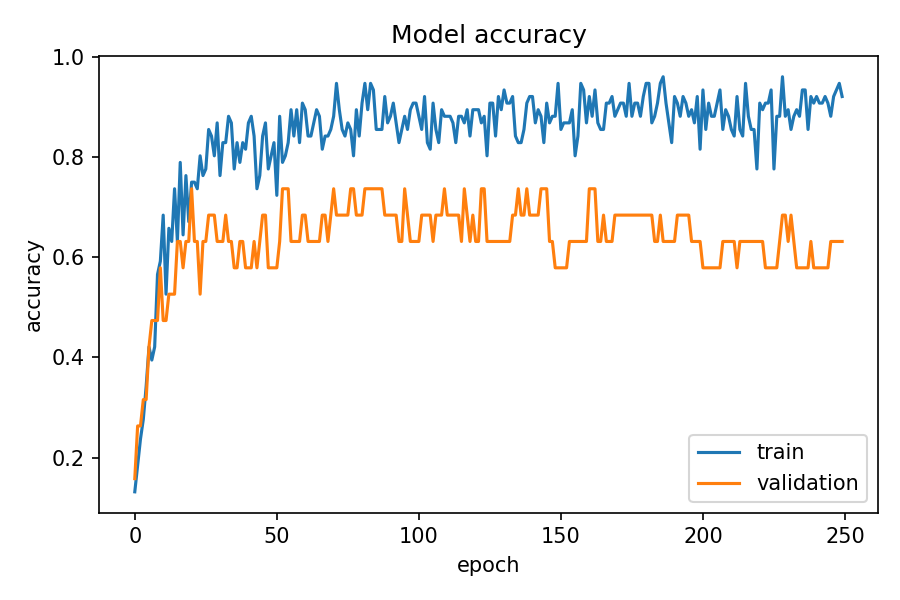
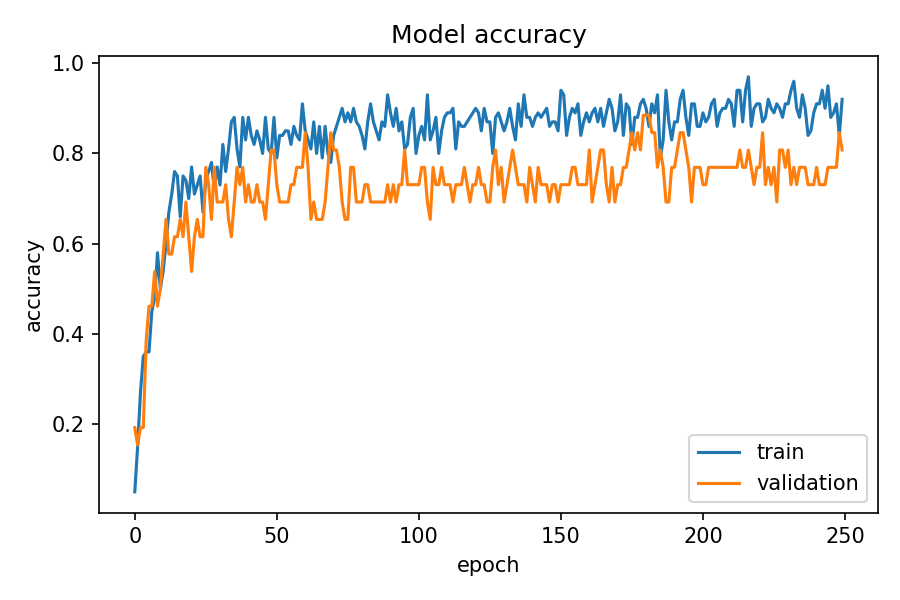
Add files via upload

diff --git a/app.js b/app.js
@@ -9,7 +9,7 @@
 
 'use strict';
 
-const MODEL_VERSION = 'v1';                 // bump to force a retrain
+const MODEL_VERSION = 'v2';                 // bump to force a retrain
 const MODEL_KEY = `indexeddb://voicebot-${MODEL_VERSION}`;
 const CONFIDENCE_THRESHOLD = 0.55;          // below this -> fallback reply
 
@@ -79,10 +79,10 @@ function bagOfWords(tokens) {
 /* ---------------------------------------------------------------- model */
 function buildModel(inputSize, numClasses) {
   const m = tf.sequential();
-  m.add(tf.layers.dense({ inputShape: [inputSize], units: 16, activation: 'relu' }));
-  m.add(tf.layers.dropout({ rate: 0.3 }));
-  m.add(tf.layers.dense({ units: 16, activation: 'relu' }));
-  m.add(tf.layers.dropout({ rate: 0.3 }));
+  m.add(tf.layers.dense({ inputShape: [inputSize], units: 24, activation: 'relu' }));
+  m.add(tf.layers.dropout({ rate: 0.2 }));
+  m.add(tf.layers.dense({ units: 24, activation: 'relu' }));
+  m.add(tf.layers.dropout({ rate: 0.2 }));
   m.add(tf.layers.dense({ units: numClasses, activation: 'softmax' }));
   m.compile({
     optimizer: tf.train.adam(0.01),
@@ -95,27 +95,35 @@ function buildModel(inputSize, numClasses) {
 async function trainModel(trainTokens, trainLabels) {
   const xs = tf.tensor2d(trainTokens.map(bagOfWords));
   const ys = tf.oneHot(tf.tensor1d(trainLabels, 'int32'), classes.length);
-
   const m = buildModel(vocab.length, classes.length);
-  await m.fit(xs, ys, {
-    epochs: 250,
-    batchSize: 8,
-    shuffle: true,
-    verbose: 0,
+
+  // clean argmax accuracy on the training set (dropout is off during predict)
+  const evalAcc = () => tf.tidy(() => {
+    const preds = m.predict(xs).argMax(1).dataSync();
+    let c = 0;
+    for (let i = 0; i < preds.length; i++) if (preds[i] === trainLabels[i]) c++;
+    return c / preds.length;
   });
 
-  // report a clean argmax accuracy (dropout off during predict)
-  const preds = m.predict(xs).argMax(1).dataSync();
-  let correct = 0;
-  for (let i = 0; i < preds.length; i++) if (preds[i] === trainLabels[i]) correct++;
-  const acc = correct / preds.length;
+  await m.fit(xs, ys, { epochs: 300, batchSize: 8, shuffle: true, verbose: 0 });
+  let acc = evalAcc();
+
+  // safeguard: keep training if an unlucky start left it under-fit
+  let rounds = 0;
+  while (acc < 0.95 && rounds < 3) {
+    await m.fit(xs, ys, { epochs: 150, batchSize: 8, shuffle: true, verbose: 0 });
+    acc = evalAcc();
+    rounds++;
+  }
 
   xs.dispose(); ys.dispose();
   return { model: m, acc };
 }
 
 async function classify(text) {
-  const vec = bagOfWords(tokenize(text));
+  const tokens = tokenize(text);
+  const vec = bagOfWords(tokens);
+  const knownWords = vec.reduce((a, b) => a + b, 0); // how many words the model knows
   const input = tf.tensor2d([vec]);
   const output = model.predict(input);
   const probs = await output.data();
@@ -123,7 +131,7 @@ async function classify(text) {
 
   let best = 0;
   for (let i = 1; i < probs.length; i++) if (probs[i] > probs[best]) best = i;
-  return { tag: classes[best], confidence: probs[best] };
+  return { tag: classes[best], confidence: probs[best], knownWords };
 }
 
 /* ---------------------------------------------------------- responses */
@@ -182,14 +190,15 @@ async function handleUserText(text) {
   if (!clean) return;
   addTurn('user', clean);
 
-  const { tag, confidence } = await classify(clean);
+  const { tag, confidence, knownWords } = await classify(clean);
   const pct = Math.round(confidence * 100);
-  const low = confidence < CONFIDENCE_THRESHOLD;
-  const reply = low ? pick(FALLBACKS) : responseFor(tag);
+  // uncertain if: no recognised words at all, or low confidence
+  const uncertain = knownWords === 0 || confidence < CONFIDENCE_THRESHOLD;
+  const reply = uncertain ? pick(FALLBACKS) : responseFor(tag);
 
   addTurn('bot', reply, {
-    html: `intent <b>${low ? 'uncertain' : tag}</b> · ${pct}%`,
-    low,
+    html: `intent <b>${uncertain ? 'uncertain' : tag}</b> · ${pct}%`,
+    low: uncertain,
   });
   speak(reply);
 }

diff --git a/report.md b/report.md
@@ -49,14 +49,14 @@ TensorFlow.js:
 | Layer | Units | Activation | Notes |
 |------:|:-----:|:----------:|-------|
 | Input | vocab size | – | binary bag-of-words vector |
-| Dense | 16 | ReLU | |
-| Dropout | – | – | rate 0.3 (regularization) |
-| Dense | 16 | ReLU | |
-| Dropout | – | – | rate 0.3 |
+| Dense | 24 | ReLU | |
+| Dropout | – | – | rate 0.2 (regularization) |
+| Dense | 24 | ReLU | |
+| Dropout | – | – | rate 0.2 |
 | Output | num intents | Softmax | probability per intent |
 
 - **Loss:** categorical cross-entropy **Optimizer:** Adam (lr = 0.01)
-- **Epochs:** 250 **Batch size:** 8
+- **Epochs:** 300 (with a retrain safeguard) **Batch size:** 8
 
 **Text-to-speech:** `SpeechSynthesis` reads the reply aloud (toggleable).
 
@@ -65,12 +65,13 @@ TensorFlow.js:
 The dataset (`intents.json`) is a set of **intents**. Each intent has a `tag`, a
 list of example `patterns` (training sentences), and a list of `responses`.
 
-- **Intents (classes):** _<fill: run the app, see the "intents" readout — e.g. 12>_
-- **Training sentences (samples):** _<fill: the "samples" readout — e.g. 95>_
-- **Vocabulary size:** _<fill: the "vocab" readout — e.g. 111>_
+- **Intents (classes):** _<fill: run the app, see the "intents" readout — e.g. 13>_
+- **Training sentences (samples):** _<fill: the "samples" readout — e.g. 126>_
+- **Vocabulary size:** _<fill: the "vocab" readout — e.g. 156>_
 
 Example intents: greeting, goodbye, thanks, about_bot, creator, help, time, date,
-weather, joke, identity_project, mood. _(Describe a couple of intents and give
+weather, joke, identity_project, mood, and an `unknown` (out-of-scope) intent.
+_(Describe a couple of intents and give
 example patterns/responses.)_
 
 ## 5. Methodology
@@ -85,7 +86,10 @@ example patterns/responses.)_
 4. **Inference + confidence.** At runtime, the recognized text is vectorized the
    same way and passed through the network. The highest softmax probability gives
    the predicted intent and a confidence score. If confidence < 0.55, the bot
-   returns a fallback message rather than guessing.
+   returns a fallback message rather than guessing. In addition, an explicit
+   `unknown` intent is trained on common out-of-scope questions so off-topic
+   queries route to a polite decline, and any sentence with no recognised words
+   also triggers the fallback.
 5. **Response generation.** A response is sampled from the predicted intent's
    `responses`. `time`/`date` intents are answered dynamically.
 
@@ -100,7 +104,7 @@ loads. _(See README for exact deployment steps. Insert your live URL here.)_
 
 _Generate the figures with `train_report.py` (see README / Colab) and insert them._
 
-- **Training accuracy:** _<e.g. 100%>_ **Final loss:** _<e.g. 0.12>_
+- **Training accuracy:** _<e.g. 100%>_ **Final loss:** _<e.g. 0.05>_
 - **Test/validation accuracy:** _<from train_report.py>_
 
 **Figures to include:**

diff --git a/README.md b/README.md
@@ -119,14 +119,16 @@ vector is fed to a neural network:
 
 ```
 Input (vocab size)
-  → Dense(16, ReLU) → Dropout(0.3)
-  → Dense(16, ReLU) → Dropout(0.3)
+  → Dense(24, ReLU) → Dropout(0.2)
+  → Dense(24, ReLU) → Dropout(0.2)
   → Dense(num_intents, Softmax)
 ```
 
 The softmax output is a probability per intent. The highest one is the predicted
-intent; if its confidence is below a threshold (0.55) the bot gives a graceful
-fallback instead of guessing.
+intent; if its confidence is below a threshold (0.55) — or the sentence contains
+no words the model knows — the bot gives a graceful fallback instead of guessing.
+An explicit `unknown` intent, trained on common out-of-scope questions (recipes,
+sports scores, math, etc.), routes off-topic queries to a polite decline.
 
 **3. Intent → response.** A response is chosen from that intent's `responses`
 list. Two special tags, `time` and `date`, are answered dynamically.
